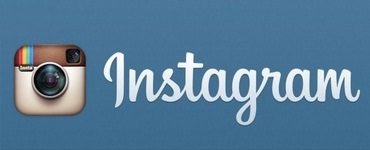
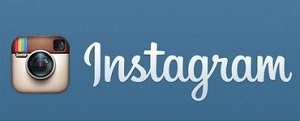
Resizing sorted for social page, about page also added with animated text

diff --git a/styles/social.css b/styles/social.css
@@ -1,6 +1,6 @@
 body {
   color: #FFFFFF;
-  background-color: #FAF0E6;
+  background-color: #4f4a4a;
   margin: 0;
   padding:0;
   height: 100%;
@@ -78,7 +78,7 @@ ul.navigation li.icon {
   background-size: 1350px 802px;
   background-repeat: no-repeat;
   background-position: center;
-  -webkit-transition: background 1s ;
+  -webkit-transition: background 3s;
 }
 
 #slider:after
@@ -127,27 +127,25 @@ h2
 
 
 #fblogo{
-  width:20%;
-  position: relative;
-  left:760px;
+  position: absolute;
+  left:780px;
   top:200px;
   border:3px solid #021a40;
 }
 
 #lilogo{
-  width:20%;
-  position: relative;
-  left:370px;
-  top:450px;
+  position: absolute;
+  left:780px;
+  top:400px;
   border:3px solid #021a40;
 }
 
 #inlogo{
-  width:20%;
-  position: relative;
-  left:-20px;
-  top:700px;
-  border:3px solid #021a40;
+ position: absolute;
+ left:780px;
+ top:600px;
+ border:3px solid #021a40;
+
 }
 
 
@@ -157,8 +155,7 @@ h2
 @media screen and (max-width:600px) {
 
   body{
-
-    overflow:hidden;
+    overflow-x:hidden;
   }
 
   ul.navigation {
@@ -207,6 +204,58 @@ h2
     text-align: center;
   }
 
+  #slider
+  {
+    height: 600px;
+    background-size: 970px 300px;
+  }
+
+  #slider:after
+  {
+    top: 230px;
+    left: 0px;
+    width: 100%;
+    height: 310px;
+  }
+
+  #left
+  {
+    margin: 270px 10px;
+  }
+
+  #right
+  {
+    margin: 270px 10px;
+  }
+
+  h2
+  {
+    font-size: 24px;
+    padding-top:290px;
+  }
+
+  header{
+    font-size: 15px;
+    left:90px;
+    top:680px;
+  }
+
+  #fblogo{
+    left:140px;
+    top:150px;
+  }
+
+  #lilogo{
+    left:140px;
+    top:350px;
+  }
+
+  #inlogo{
+    left:140px;
+    top:550px;
+  }
+
+
 }
 
 
@@ -226,6 +275,63 @@ h2
     padding-left:80px;
   }
 
+  #slider
+  {
+    height: 500px;
+    background-size: 770px 800px;
+  }
+
+  #slider:after
+  {
+    top: 84px;
+    left: 45px;
+    width: 89.7%;
+    height: 503px;
+  }
+
+  #left
+  {
+    margin: 210px 50px;
+  }
+
+  #right
+  {
+    margin: 210px 50px;
+  }
+
+  h2
+  {
+    font-size: 36px;
+    padding-top:210px;
+  }
+
+  header{
+    font-size: 18px;
+    left:170px;
+    top:680px;
+  }
+
+  #fblogo{
+    left:250px;
+    top:200px;
+  }
+
+  #lilogo{
+    left:250px;
+    top:400px;
+  }
+
+  #inlogo{
+    left:250px;
+    top:600px;
+  }
+
+  footer{
+    min-width: 1000px;
+    max-width: 1000px;
+  }
+
+
 }
 
 
@@ -236,10 +342,6 @@ h2
 /*Whilst the width is above 940px do the following*/
 @media screen and (min-width: 940px) {
 
-  body{
-    background-color: #4f4a4a;
-    overflow-x:hidden;
-  }
 
   ul.navigation li a:hover{
     background-color: #555;
@@ -248,6 +350,11 @@ h2
   ul.navigation {
     max-width: 2000px;
     min-width: 2000px;
+  }
+
+  footer{
+    min-width: 2000px;
+    max-width: 2000px;
   }
 
 

diff --git a/styles/about.css b/styles/about.css
@@ -1,6 +1,7 @@
 body {
   font-size: 14px;
   color: #FFFFFF;
+  background-color: #4f4a4a;
   margin: 0;
   padding:0;
   height: 100%;
@@ -24,6 +25,7 @@ footer{
   bottom: 0px;
 }
 
+
 /* Remove default link settings*/
 a {
   text-decoration: none;
@@ -43,6 +45,7 @@ ul.navigation {
   overflow: hidden;
   background-color: #333;
   border-bottom:1px solid;
+
 }
 
 /*Arrange the items in the navigation bar (Move to the right and display inline)*/
@@ -60,13 +63,82 @@ ul.navigation li a {
   text-decoration: none;
   transition: 0.3s;
   font-size: 21px;
-
-
 }
 
 /*Menu icon is hidden when the page is over the limit specified*/
 ul.navigation li.icon {
   display: none;
+}
+
+
+
+p.animation{
+  font-family: "Times New Roman", Times, serif;
+  font-size: 20px;
+  font-weight: bold;
+  margin: 10px 0 0 100px;
+  position: relative;
+  top:250px;
+  white-space: nowrap;
+  overflow: hidden;
+  width: 120em;
+  display: inline-block;
+  animation: type 1s steps(60, end); 
+}
+
+p:nth-child(3){
+  animation: type2 2s steps(80, end);
+}
+
+p:nth-child(4){
+  animation: type3 4s steps(80, end);
+}
+
+p:nth-child(5){
+  animation: type4 8s steps(80, end);
+}
+
+
+p a{
+  color: lime;
+  text-decoration: none;
+}
+
+span{
+  animation: blink 1s infinite;
+}
+
+
+
+@keyframes type{ 
+  from { width: 0; } 
+} 
+
+@keyframes type2{
+  0%{width: 0;}
+  50%{width: 0;}
+  100%{ width: 100; } 
+}
+
+@keyframes type3{
+  0%{width: 0;}
+  50%{width: 0;}
+  100%{ width: 100; } 
+} 
+
+@keyframes type4{
+  0%{width: 0;}
+  50%{width: 0;}
+  100%{ width: 100; } 
+} 
+
+
+@keyframes blink{
+  to{opacity: .0;}
+}
+
+::selection{
+  background: black;
 }
 
 
@@ -77,7 +149,6 @@ ul.navigation li.icon {
 
   body{
     overflow:hidden;
-    background-image: url("../images/background2.jpg");
   }
 
   ul.navigation {

diff --git a/about.html b/about.html
@@ -25,6 +25,12 @@
 
     </ul>
 
+    <p class = "animation">"Welcome to my website, my name is Danish Hussain I am a final year undergraduate at De Montfort University studying towards obtaining a BSC Computer Science (Hons) degree. My excellent communication</p>
+    <p class = "animation">and organisational skills, coupled with my desire to achieve highly, allowed me to secure a number of work experience placements. As a result, I was able to balance my professional development, whilst</p> 
+    <p class = "animation">ensuring I excelled academically – achieving a First class during my first two years of university. My ability to self-evaluate and desire to continue my professional development, makes me well suited </p>
+    <p class = "animation">for a graduate position, given the transferable nature of my skill set. I am eager to exploit further opportunities and aim to pursue a career within the technology sector. - Danish Hussain 2017"<span>|</span></p>
+
+
     <footer>
       <p>© Danish Hussain 2017 - All Rights Reserved.</p>   
     </footer>
